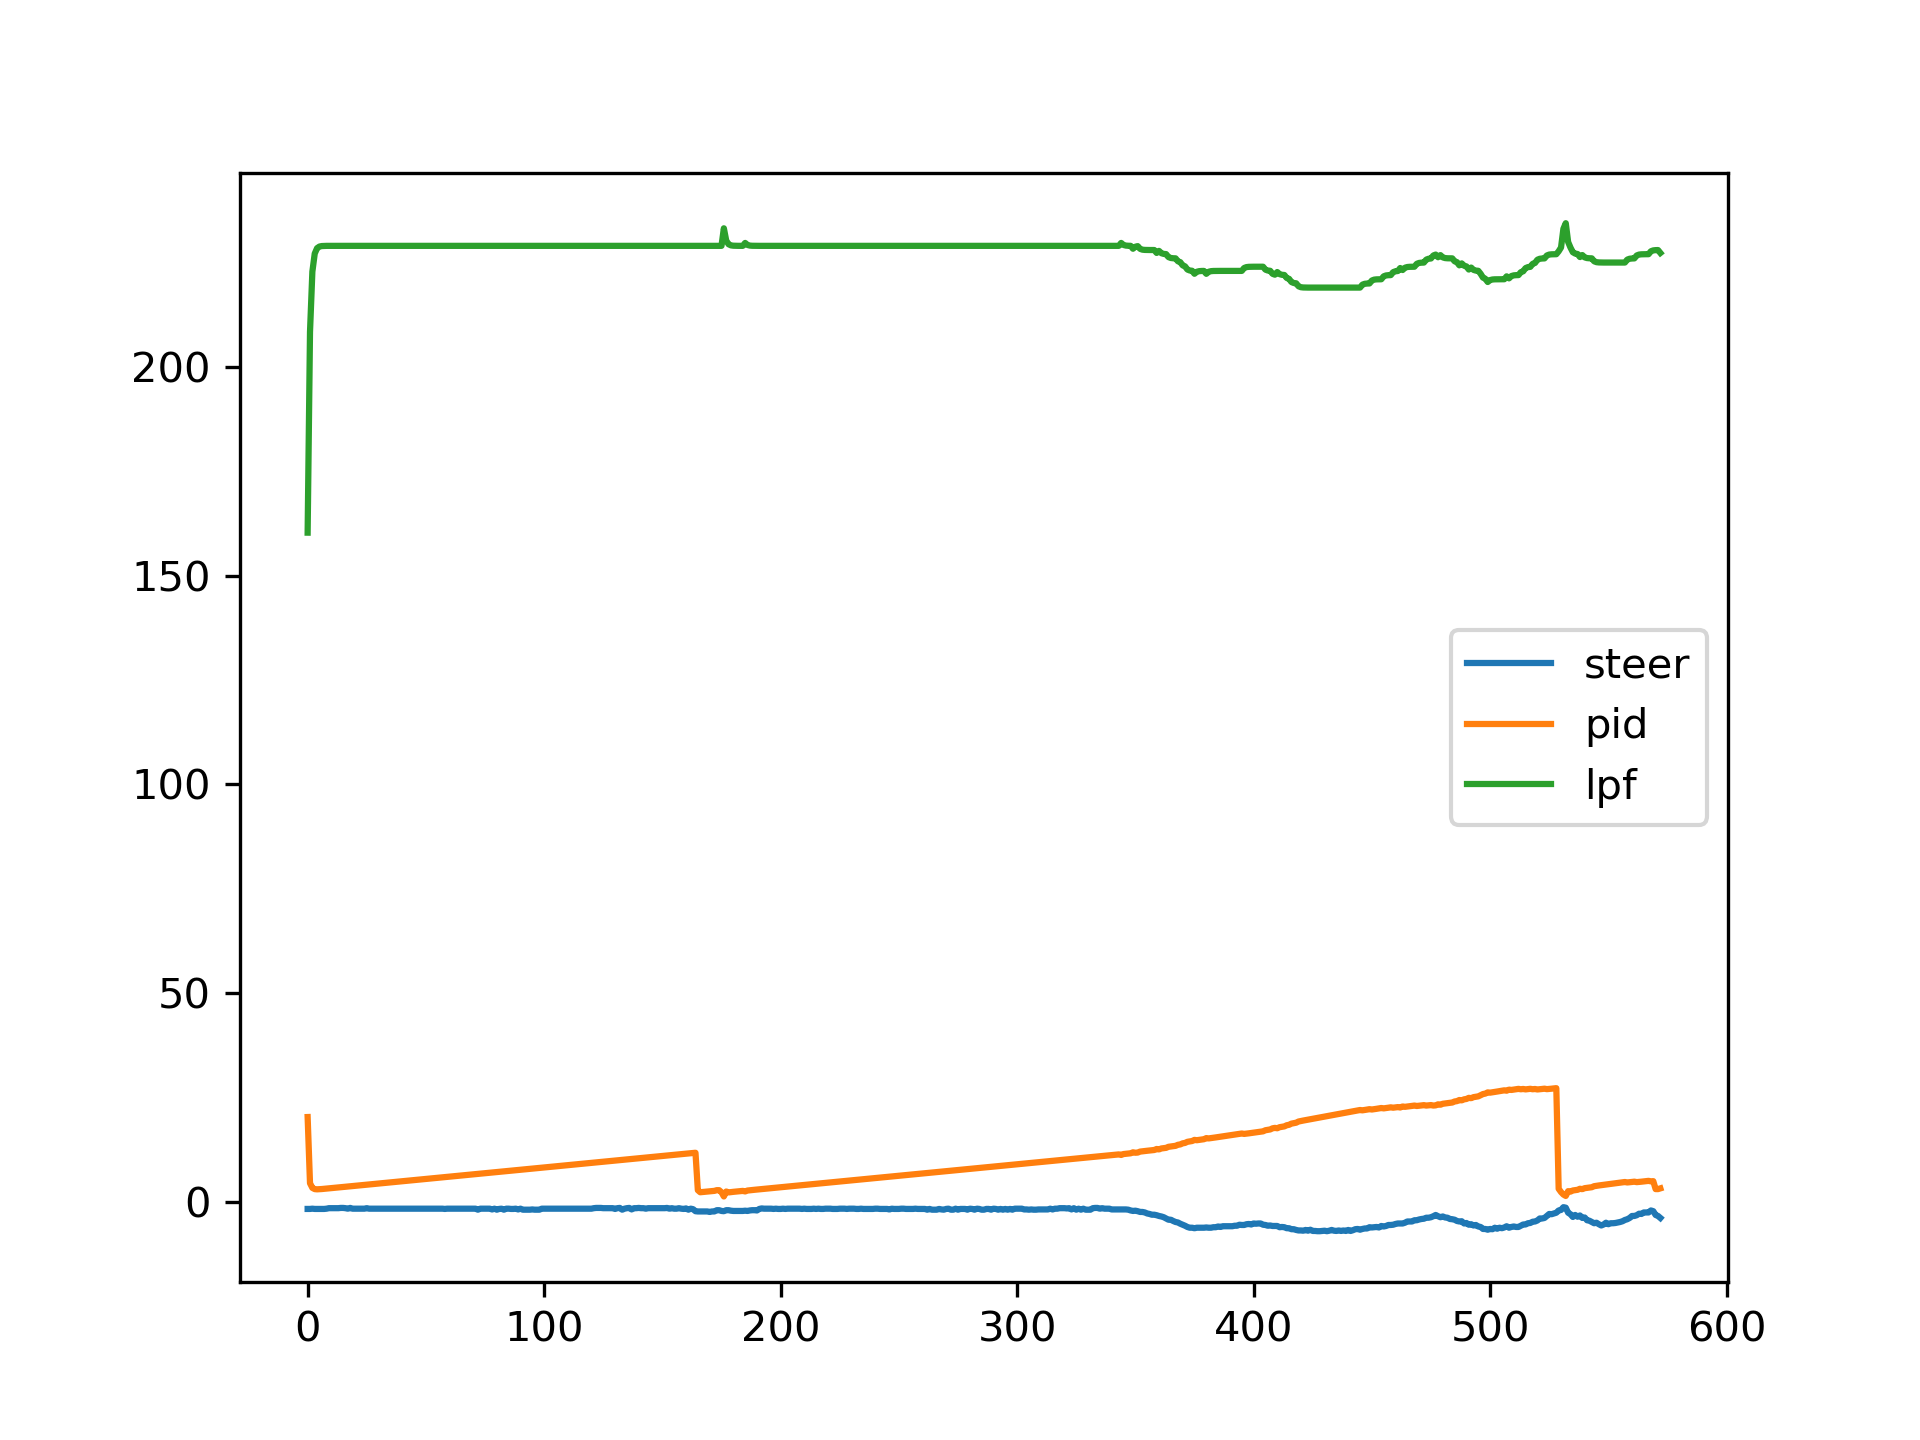
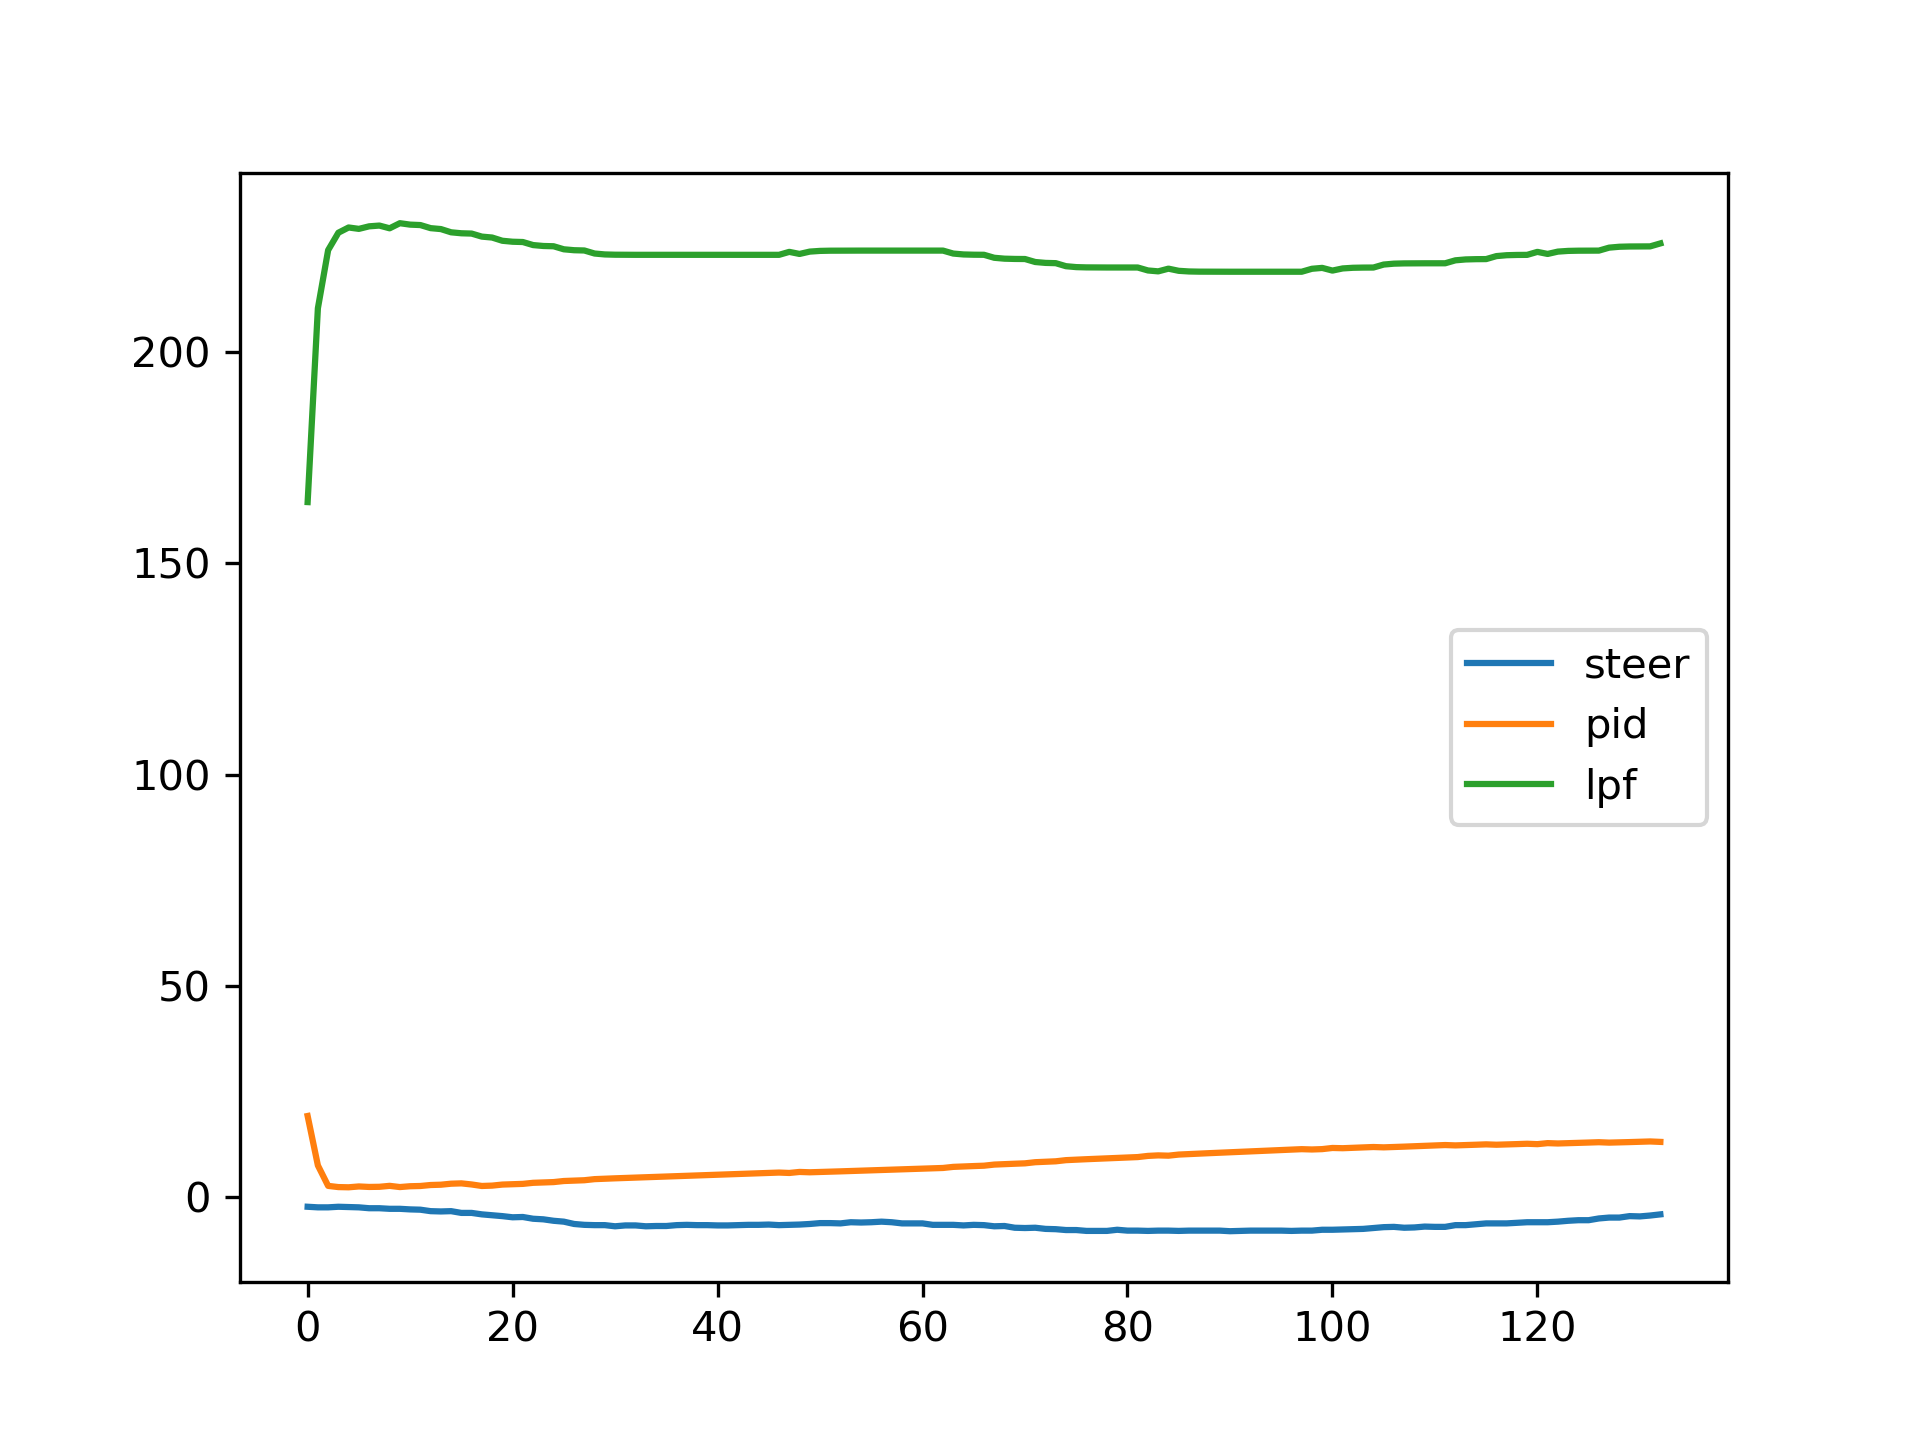
slidewindow modify and video save opt

diff --git a/src/lane_detect/src/slidewindow.py b/src/lane_detect/src/slidewindow.py
@@ -26,10 +26,10 @@ class SlideWindow:
         cf_img = np.dstack((roi_img,roi_img,roi_img))
 
         window_height = 20
-        window_width = 30
+        window_width = 20
 
         # minpix : 30% number of total window pixel
-        minpix = window_height*window_width // 3
+        minpix = window_height*window_width // 4
         n_windows = roi_width//window_width//2
         # 480 // 30 // 2 == 8
         # pts_left = np.array([[roi_width//2, roi_height//2-window_height//2], [roi_width//2, roi_height//2+window_height//2], [roi_width//2-window_width, roi_height//2+window_height//2],[roi_width//2-window_width, roi_height//2-window_height//2]], np.int32)
@@ -111,7 +111,7 @@ class SlideWindow:
             if left_start_x is not None and right_start_x is not None:
                 dist = right_start_x - left_start_x
 
-                if dist_threshold-100 < dist and dist < dist_threshold + 100:
+                if dist_threshold-100 < dist and dist < dist_threshold + 150:
                     cv2.circle(cf_img, (right_start_x, right_start_y),3, (255,0,0),-1)
                     cv2.circle(cf_img, (left_start_x, left_start_y), 3, (255,0,0),-1)
 
@@ -122,33 +122,41 @@ class SlideWindow:
 
     def h_slidewindow(self, img, x_left_start, x_right_start):
         line_fitter = LinearRegression()
+
         h, w = img.shape
+
         output_img = np.dstack((img,img,img))
+
         nonzero = img.nonzero()
         nonzeroy = np.array(nonzero[0])
         nonzerox = np.array(nonzero[1])
+
         x_left = x_left_start
         x_right = x_right_start
         y_start = h/2 + 100
-        window_height = 30
+
+        window_height = 16
         window_width = 16
 
         find_left = False
         find_right = False
 
         minpix = window_width * window_height / 30
-        n_windows = 5
+        n_windows = 10
         # print('nwindows',n_windows)
         left_idx = 0
         right_idx = 0
-        center_x = np.zeros((5),dtype = 'f')
-        center_y = np.zeros((5),dtype = 'f')
-        center=np.zeros((5,2),dtype='f')
+
+        center_x = np.zeros((n_windows),dtype = 'f')
+        center_y = np.zeros((n_windows),dtype = 'f')
+        center=np.zeros((n_windows,2),dtype='f')
 
         size_center=0
+
         for i in range(n_windows):
             cv2.rectangle(output_img, (x_left - window_width, y_start - i * window_height), (x_left+ window_width, y_start - (i + 1) * window_height), (0,255,255),1)
             cv2.rectangle(output_img, (x_right - window_width, y_start - i * window_height), (x_right + window_width, y_start - (i + 1) * window_height), (255,0,255),1)
+
             good_left_inds = ((nonzerox >= x_left - window_width) & (nonzerox < x_left+ window_width) & (nonzeroy < y_start - i * window_height) & (nonzeroy >= y_start - (i + 1) * window_height)).nonzero()[0]
             good_right_inds = ((nonzerox >= x_right -window_width) & (nonzerox <= x_right + window_width) & (nonzeroy < y_start - i * window_height) & (nonzeroy >= y_start - (i + 1) * window_height)).nonzero()[0]
 
@@ -167,28 +175,37 @@ class SlideWindow:
                 x_right = np.int(np.mean(nonzerox[good_right_inds]))
 
             center_point = np.int((x_left +x_right)/2)
-            if i < 5:
+
+            if i < n_windows:
                 # center[i] = np.array([center_point,y_start - i*window_height - 10])
                 center_x[i] = np.array([center_point])
-                center_y[i] = np.array([y_start - i*window_height - 10])
+                center_y[i] = np.array([y_start - i*window_height - window_height//2])
                 size_center+=1
 
             # print('center',center_point)
             # print('y',y_start - (i*window_height) -3)
             # cv2.circle(output_img, (center_point,y_start - i*window_height - 10 ),3,(0,0,255),1)
+        print("center_y : {}    center_x : {}".format(center_y, center_x))
         fp1 = np.polyfit(center_y,center_x,1)
         f1 = np.poly1d(fp1)
         returns_x = f1(center_y)
+
         cv2.line(output_img,(returns_x[0],center_y[0]),(returns_x[size_center-1],center_y[size_center-1]),(0,0,255))
 
-        for i in range(5):
-            cv2.circle(output_img,(returns_x[i],center_y[i]),3,(0,0,255),-1)
+        for i in range(n_windows):
+            cv2.circle(output_img,(center_x[i],center_y[i]),3,(50,90,55),-1)
         cv2.circle(output_img,(center_x[0],center_y[0]),9,(255,50,0),-1)
 
         # steer_theta=math.degrees(math.atan((center_x[0]-returns_x[size_center-1] )/(center_y[size_center-1]-center_y[0])))
-        steer_theta=math.degrees(math.atan((240-returns_x[size_center-1] )/(center_y[size_center-1]-295)))
-        cv2.line(output_img,(240,295),(returns_x[size_center-1],center_y[size_center-1]),(0,255,255))
+        steer_theta = math.degrees(math.atan((240-returns_x[size_center-1] )/(center_y[size_center-1]-270)))
+        cv2.line(output_img,(240,270),(returns_x[size_center-1],center_y[size_center-1]),(0,255,255))
             # line_fitter.fit(center.reshape(-1,1),center_y)
         # y_predicted = line_fitter.predict(center_x)
+        steer_theta=steer_theta*0.7
 
+        if steer_theta>28:
+            steer_theta=28
+        elif steer_theta<-28:
+            steer_theta=-28
+            
         return x_left_start, x_right_start, output_img ,steer_theta

diff --git a/src/lane_detect/src/lane_detect.py b/src/lane_detect/src/lane_detect.py
@@ -63,7 +63,8 @@ def auto_drive(pid):
 
     drive_values_pub.publish(drive_value)
 
-    print("steer : ", drive_value.steering)
+    print("real_steer : ", pid)
+    print("return_steer : ", drive_value.steering)
     print("throttle : ", drive_value.throttle)
 
 def normalize(ipt, mean, std):
@@ -141,6 +142,8 @@ def main():
         cap = cv2.VideoCapture("input_video/track.avi")
     elif opt.video_idx is 4:
         cap =cv2.VideoCapture("output_video/field.avi")
+    elif opt.video_idx is 5:
+        cap = cv2.VideoCapture("output_video/2020-08-23 19:20:01.166517.avi")
     else:
         cap = cv2.VideoCapture(0)
         # video test
@@ -178,7 +181,7 @@ def main():
     pid_old = None
     steer_theta = 0
     i=0
-    x_location = 440
+    x_location = 240
 
     while True:
         ret, frame = cap.read()
@@ -222,13 +225,15 @@ def main():
                 output = cv2.resize(output, (640, 360))
                 output[output>80] = 255
                 output[output<=80] = 0
-                cv2.circle(output, (output.shape[1]/2, output.shape[0]), 9, (255,255,0), -1)
-                cv2.imshow("output_img",output)
-                print("shape_info",output.shape)
+
+                # cv2.circle(output, (output.shape[1]/2, output.shape[0]), 9, (255,255,0), -1)
+                cv2.imshow("output_img", output)
+
+                print("shape_info", output.shape)
                 # cv2.circle(output, (output.shape[0]/2, output.shape[1]/2), 9, (0,255,0), -1)
                 #warper_img = warper.warp(output)
                 warper_img = warper.warp_test(output)
-                cv2.imshow("warp_img",warper_img)
+                cv2.imshow("warp_img", warper_img)
 
                 # warper_img_test = warper.warp_test(output)
                 # cv2.imshow("warp_img_test",warper_img_test)
@@ -243,28 +248,29 @@ def main():
                     x_location = (left_x_current+right_x_current)/2
 
                     # low pass filter
-                    lpf_result = lpf(x_location, 0.3)
-                    lpf_list.append(lpf_result)
+                    steer_theta = lpf(steer_theta, 0.3)
+                    lpf_list.append(steer_theta)
 
                     # steer theta : Degree
                     print("steer theta:" ,steer_theta)
+                    #
+                    # if steer_theta<-28.0 or steer_theta >28.0:
+                    #     # auto_drive(pid_old)
+                    #     auto_drive(steer_theta)
 
-                    if steer_theta<-28.0 or steer_theta >28.0:
-                        # auto_drive(pid_old)
-                        auto_drive(steer_theta)
-
-                    else:
+                    # else:
                         # degree angle
-                        pid = round(pidcal.pid_control(lpf_result),6)
-                        pid_list.append(pid)
-                        print("pid :",pid)
-                        pid_old = pid
-                        auto_drive(steer_theta)
+                    pid = round(pidcal.pid_control(steer_theta),6)
+                    pid_list.append(pid)
+
+                    print("pid :",pid)
+
+                    pid_old = pid
+                    auto_drive(steer_theta)
 
                         # auto_drive(pid)
                 else:
                     auto_drive(steer_theta)
-
                     # auto_drive(pid)
                     pidcal.error_sum = 0
                     pidcal.error_old = 0
@@ -283,7 +289,7 @@ def main():
                 cv2.imshow("frame",frame)
 
 
-                if opt.video_idx > 2:
+                if opt.video_idx == -1:
                     print("frame.shape : {}".format(frame.shape))
                     out.write(frame)
                 # cv2.imshow("src", warper_img)

diff --git a/src/lane_detect/src/lane_recorder.py b/src/lane_detect/src/lane_recorder.py
@@ -168,8 +168,8 @@ def main():
     out = None
 
     if opt.video_idx > 2:
-        # fourcc =cv2.VideoWriter_fourcc(*'MJPG')
-        fourcc =cv2.VideoWriter_fourcc(*'mp4v')
+        fourcc =cv2.VideoWriter_fourcc(*'MJPG')
+        # fourcc =cv2.VideoWriter_fourcc(*'MP4V')
         out = cv2.VideoWriter('output_warper_video/' + str(now) + '.avi',fourcc,30.0,(480,320))
 
     pid_list=list()
@@ -232,10 +232,10 @@ def main():
                 warper_img = warper.warp_test(output)
                 cv2.imshow("warp_img",warper_img)
                 if opt.video_idx > 2 :
-                        # print("frame.shape : {}".format(frame.shape))
-                    print("warper_img.shape : {}".format(warper_img.shape))
-
-                    out.write(warper_img)
+                    print("frame.shape : {}".format(frame.shape))
+                    tmp = cv2.cvtColor(warper_img,cv2.COLOR_GRAY2RGB)
+                    # print("warper_img.shape : {}".format(warper_img.shape))
+                    out.write(tmp)
                 # warper_img_test = warper.warp_test(output)
                 # cv2.imshow("warp_img_test",warper_img_test)
                 ret, left_start_x, right_start_x, cf_img = slidewindow.w_slidewindow(warper_img, 180)

diff --git a/src/lane_detect/src/opts.py b/src/lane_detect/src/opts.py
@@ -21,7 +21,7 @@ def parse():
                         help='cudnn setting', choices=['fastest', 'deterministic', ' default'])
     # Path options
     parser.add_argument('--dataset', default='indoor', dest='dataset', type=str, help='dataset name')
-    parser.add_argument('--resume',           default='../result/linepx/',
+    parser.add_argument('--resume',           default='../result/linepx_unet_sgd/',
                         type=str,        help='Path to checkpoint and path to test result')
     # Data options
     parser.add_argument('--nThreads',         default=8,
@@ -67,7 +67,7 @@ def parse():
     parser.add_argument('--optimizer',        default='SGD',          type=str,
                         help='optimizertype, more choices available', choices=['SGD', 'Adam'])
     # Model options
-    parser.add_argument('--netType',          default='stackedHGB',
+    parser.add_argument('--netType',          default='Unet',
                         type=str,        help='Your defined model name')
     parser.add_argument('--netSpec',          default='custom',       type=str,
                         help='Other model to be loaded', choices=['custom', 'resnet'])

diff --git a/src/lane_detect/src/pidcal.py b/src/lane_detect/src/pidcal.py
@@ -1,17 +1,21 @@
 class PidCal:
     error_sum = 0
     error_old = 0
-    p = [0.2, 0.005, 0.05] # optimized kp,ki,kd
+    #p = [0.2, 0.005, 0.05] # optimized kp,ki,kd
+    p = [0.0020, 0.000005, 0.005]
     dp = [p[0]/10, p[1]/10, p[2]/10] # to twiddle kp, ki, kd
 
     def __init__(self):
         # print "init PidCal"
         self.x = 240
+
     def cal_error(self, setpoint=240):
         return setpoint - self.x
+
     def info_p(self):
 	round_p= [round(x,7) for x in self.p]
 	return round_p
+
     # twiddle is for optimize the kp,ki,kd
     def twiddle(self, setpoint=240):
         best_err = self.cal_error()

diff --git a/src/lane_detect/src/warper.py b/src/lane_detect/src/warper.py
@@ -30,10 +30,10 @@ class Warper:
         ])
 
         self.real_src = np.float32([
-            [200, 162],
-            [438, 162],
-            [20, 320],
-            [620, 320],
+            [185, 180],
+            [455, 180],
+            [0, 360],
+            [640, 360],
         ])
 
         # self.real_dst = np.float32([
